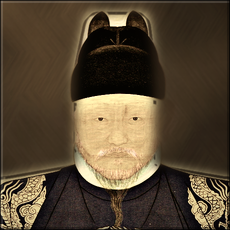
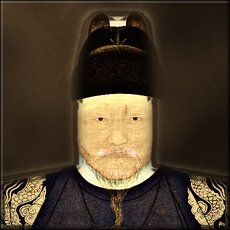
Darken the light halos at the leader heads' cut edges
A per-portrait edge step pulls the outline in and darkens whatever
the old background left lighter than the sitter and the ground just
inside and outside the edge, toward the ground there. Used on the
Celt, the Hittite statue, Genghis Khan and Wang Kon, and lightly on
Japan, Sumeria, Babylon and Rome.

diff --git a/ArtGen/leaderheads/build.py b/ArtGen/leaderheads/build.py
@@ -147,18 +147,18 @@ PAINT = {
     # Hand-drawn outlines (polygons, in fractions of the tile) where the
     # mask can't find the sitter's edge: outside them is all painted ground
     # (with hand_only, inside them is all sitter).
-    'Rome': {'broad': 140, 'keep': 0.5, 'color': 0.45, 'hand_only': True,
+    'Rome': {'broad': 140, 'keep': 0.5, 'color': 0.45, 'hand_only': True, 'edge': 3,
              'hand': [[(0.29, 0.3), (0.34, 0.1), (0.45, 0.04), (0.6, 0.03), (0.72, 0.06), (0.78, 0.15), (0.78, 0.38),
                        (0.74, 0.62), (0.8, 0.74), (0.88, 0.82), (0.9, 1), (0.27, 1), (0.28, 0.8), (0.3, 0.66),
                        (0.29, 0.5)]]},
     # statues before a light wall: the sitter's outline pulled in further,
     # so no light rim of the wall glows round the head
-    'Babylon': {'erode': 15, 'plain': 1.0},
-    'Hittites': {'erode': 8, 'hand_only': True, 'level': 0.36, 'local': 1.5, 'feather': 4,
+    'Babylon': {'erode': 15, 'plain': 1.0, 'edge': 3},
+    'Hittites': {'erode': 8, 'hand_only': True, 'level': 0.36, 'local': 1.5, 'feather': 4, 'edge': 5, 'shrink': 2, 'bg': 1.0,
                  'hand': [[(0.24, 0.42), (0.3, 0.25), (0.42, 0.06), (0.5, 0.0), (0.58, 0.04), (0.72, 0.25), (0.8, 0.45),
                            (0.86, 0.6), (0.82, 0.68), (0.8, 0.8), (0.75, 0.9), (0.72, 1), (0.3, 1), (0.26, 0.85),
                            (0.24, 0.7), (0.22, 0.55)]]},
-    'Sumeria': {'erode': 15},
+    'Sumeria': {'erode': 15, 'edge': 3},
     'Greece': {'hand_only': True,
                'hand': [[(0.16, 0.3), (0.19, 0.15), (0.3, 0.09), (0.55, 0.08), (0.75, 0.13), (0.85, 0.22), (0.89, 0.5),
                          (0.86, 1), (0.22, 1), (0.16, 0.65)]]},
@@ -169,7 +169,8 @@ PAINT = {
                            (0.7, 0.45), (0.62, 0.62), (0.64, 0.76), (1, 0.86), (1, 1), (0, 1), (0, 0.88),
                            (0.34, 0.77), (0.37, 0.62), (0.3, 0.5)]]},
     # a pale face on pale silk the mask can't tell apart
-    'Korea': {'keep': 1.0, 'color': 0.4, 'level': 0.27, 'hand_only': True, 'local': 2.5, 'feather': 5, 'erode': 15,
+    'Korea': {'keep': 1.0, 'color': 0.7, 'level': 0.22, 'hand_only': True, 'local': 3.0, 'feather': 5, 'erode': 15,
+              'edge': 5, 'shrink': 2, 'bg': 1.0,
               'hand': [[(0.38, 0.06), (0.64, 0.06), (0.67, 0.3), (0.67, 0.45), (0.67, 0.5), (0.67, 0.62), (0.66, 0.72),
                         (1, 0.78), (1, 1), (0, 1), (0, 0.78), (0.34, 0.72), (0.33, 0.62), (0.33, 0.5), (0.33, 0.45),
                         (0.33, 0.3)]]},
@@ -178,12 +179,12 @@ PAINT = {
     'America': {'keep': 0.55, 'erode': 30, 'feather': 3},
     'China': {'keep': 0.65},
     'India': {'keep': 0.65},
-    'Mongols': {'color': 0.35, 'level': 0.30, 'keep': 0.8, 'feather': 3,
+    'Mongols': {'color': 0.35, 'level': 0.30, 'keep': 0.8, 'feather': 3, 'edge': 5, 'shrink': 3, 'bg': 1.0,
                 'hand': [[(0.22, 0.6), (0.24, 0.25), (0.33, 0.1), (0.5, 0.05), (0.67, 0.1), (0.78, 0.25), (0.84, 0.6),
                           (1, 0.7), (1, 1), (0, 1), (0, 0.7)]]},
-    'Japan': {'hand': [[(0.36, 0.45), (0.4, 0.3), (0.5, 0.2), (0.62, 0.18), (0.7, 0.25), (0.76, 0.35), (0.8, 0.5),
+    'Japan': {'edge': 3, 'hand': [[(0.36, 0.45), (0.4, 0.3), (0.5, 0.2), (0.62, 0.18), (0.7, 0.25), (0.76, 0.35), (0.8, 0.5),
                         (0.82, 0.55), (1, 0.52), (1, 1), (0, 1), (0, 0.75), (0.3, 0.68), (0.36, 0.6)]]},
-    'Celts': {'feather': 3, 'hand_only': True,
+    'Celts': {'feather': 3, 'hand_only': True, 'edge': 5, 'shrink': 2, 'bg': 1.0,
               'hand': [[(0.33, 0.4), (0.36, 0.22), (0.45, 0.33), (0.58, 0.38), (0.62, 0.48), (0.63, 0.62), (0.66, 0.74),
                         (0.85, 0.8), (0.92, 1), (0.08, 1), (0.15, 0.8), (0.3, 0.74), (0.31, 0.6), (0.31, 0.48)]]},
     'Byzantines': {'keep': 0.75, 'broad': 150},

diff --git a/ArtGen/leaderheads/paint.py b/ArtGen/leaderheads/paint.py
@@ -167,7 +167,7 @@ def backdrop(n, seed):
 
 def paint(img, seed=0, strength=1.0, oval=1.0, keep=0.4, broad=70, bg=0.92, color=0.75, erode=60, level=0.42,
           fixed=None, plain=None, contrast=1.0, texture=1.0, green=None, hand=None, soften=0,
-          hand_only=False, local=0, feather=0):
+          hand_only=False, local=0, feather=0, edge=0, shrink=0):
     """The painted finish on a PIL RGB picture (returns float RGB 0..1).
     Per picture: oval, how sure the center is the sitter (lower for a
     sitter before a bright wall, which would glow); keep, how much of the
@@ -208,6 +208,11 @@ def paint(img, seed=0, strength=1.0, oval=1.0, keep=0.4, broad=70, bg=0.92, colo
         body = (yy > cy + ry * 0.6) & (np.abs(xx - cx) < rx * 1.9 + (yy - cy - ry * 0.6) * 1.2)
         mask = np.clip(nd.gaussian_filter((head | body).astype(np.float32), n / 50), 0, 1)
         wall = np.zeros_like(mask)
+    if shrink:
+        # the sitter's edge pulled in (pixels of the final tile)
+        k = 2 * int(round(shrink * n / 230)) + 1
+        mask = nd.grey_erosion(mask, size=k)
+        wall = nd.grey_dilation(wall, size=k)
     if feather:
         # a softer sitter's edge, so it doesn't look cut out
         mask = nd.gaussian_filter(mask, feather * n / 230)
@@ -259,6 +264,35 @@ def paint(img, seed=0, strength=1.0, oval=1.0, keep=0.4, broad=70, bg=0.92, colo
     rimw = nd.gaussian_filter(rim.astype(np.float32), 1.5)[..., None]
     bg_share = np.maximum(bg_share, rimw * bg)
     p = p * (1 - bg_share) + bd * bg_share
+    if edge:
+        # halos: in the band just inside the sitter's edge (edge pixels of
+        # the final tile wide), anything lighter than both the sitter's
+        # inside nearby and the ground is the old background showing
+        # through: darkened to the ground
+        k = max(1, int(round(edge * n / 230)))
+        core = mask > 0.5
+        inner = nd.binary_erosion(core, iterations=k)
+        band = core & ~inner
+        lq = _luma(np.clip(p, 0, 1))
+        size = max(5, 3 * k)
+        num = nd.uniform_filter(lq * inner, size)
+        den = nd.uniform_filter(inner.astype(np.float32), size)
+        interior = np.where(den > 0.02, num / (den + 1e-6), 0)
+        lim = np.maximum(interior, _luma(bd))
+        amt = np.clip((lq - lim) / 0.08, 0, 1) * band
+        # also just outside the edge, where the soft edge still holds wall
+        outer = nd.binary_dilation(core, iterations=k) & ~core
+        amt = np.maximum(amt, np.clip((lq - _luma(bd) - 0.03) / 0.08, 0, 1) * outer)
+        amt = nd.gaussian_filter(amt, 1.0)[..., None]
+        # (toward the ground as it is just outside, not the bare backdrop,
+        # which is darker and would draw a dark line round the sitter)
+        out = (mask < 0.1).astype(np.float32)
+        gsize = max(9, 6 * k)
+        gnum = nd.uniform_filter(p * out[..., None], (gsize, gsize, 1))
+        gden = nd.uniform_filter(out, gsize)[..., None]
+        ground = np.where(gden > 0.02, gnum / (gden + 1e-6), bd)
+        target = np.minimum(ground, np.maximum(bd, ground))
+        p = p * (1 - amt) + target * amt
     if green is not None:
         # (a green field, like Abu Bakr's roundel: dimmed and turned toward
         # an aged verdigris in the umber key)
